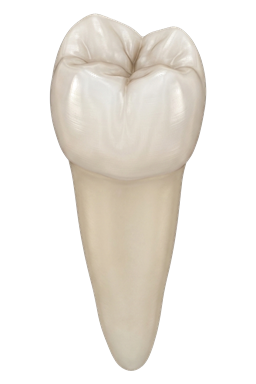
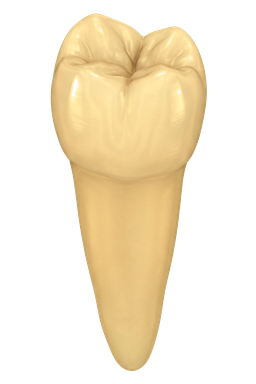
Fix upper lateral crown orientation, boost tooth color saturation, and increase odontogram tooth size

diff --git a/index.html b/index.html
@@ -839,13 +839,13 @@
     .clinical-odontogram-stage #upper-arch::before { top: clamp(38px, 4vw, 54px); }
     .clinical-odontogram-stage #lower-arch::before { bottom: clamp(38px, 4vw, 54px); }
     .clinical-odontogram-stage .tooth-card {
-      min-height: clamp(158px, 15vw, 195px);
+      min-height: clamp(175px, 17vw, 220px);
       justify-content: center;
       gap: 0.15rem;
       border: 0;
       border-radius: 0;
       background: transparent;
-      padding: clamp(2px, 0.3vw, 5px) clamp(0.5px, 0.15vw, 2px);
+      padding: clamp(2px, 0.3vw, 4px) clamp(0.5px, 0.1vw, 2px);
       box-shadow: none;
       overflow: visible;
     }
@@ -867,17 +867,17 @@
     }
     .clinical-odontogram-stage .tooth-card.has-charted-finding::after { display: none; }
     .clinical-odontogram-stage .odontogram-anatomy {
-      width: clamp(44px, 5.2vw, 68px) !important;
-      min-width: clamp(44px, 5.2vw, 68px) !important;
+      width: clamp(52px, 6.2vw, 84px) !important;
+      min-width: clamp(52px, 6.2vw, 84px) !important;
       height: auto !important;
       margin: 0;
-      aspect-ratio: 64 / 96;
+      aspect-ratio: 64 / 100;
       filter: none;
       transition: filter 0.18s ease, transform 0.18s ease;
     }
     .clinical-odontogram-stage .odontogram-anatomy.is-lateral-anatomy {
-      width: clamp(38px, 4.4vw, 58px) !important;
-      min-width: clamp(38px, 4.4vw, 58px) !important;
+      width: clamp(42px, 5.0vw, 68px) !important;
+      min-width: clamp(42px, 5.0vw, 68px) !important;
     }
     .tooth-photo.is-upper-lateral {
       transform: rotate(var(--tooth-photo-rotation)) scaleX(var(--tooth-photo-mirror)) scale(0.9);
@@ -1001,14 +1001,14 @@
     @media (max-width: 899px) {
       .clinical-odontogram-stage { --odontogram-columns: 16; }
       .clinical-odontogram-stage .tooth-card,
-      .clinical-odontogram-empty { min-height: 146px; }
+      .clinical-odontogram-empty { min-height: 156px; }
       .clinical-odontogram-stage .odontogram-anatomy {
-        width: clamp(34px, 9vw, 50px) !important;
-        min-width: clamp(34px, 9vw, 50px) !important;
+        width: clamp(38px, 10vw, 56px) !important;
+        min-width: clamp(38px, 10vw, 56px) !important;
       }
       .clinical-odontogram-stage .odontogram-anatomy.is-lateral-anatomy {
-        width: clamp(30px, 8vw, 44px) !important;
-        min-width: clamp(30px, 8vw, 44px) !important;
+        width: clamp(32px, 8.5vw, 48px) !important;
+        min-width: clamp(32px, 8.5vw, 48px) !important;
       }
       .clinical-odontogram-stage .odontogram-surface-view {
         width: clamp(30px, 9vw, 48px) !important;
@@ -12396,7 +12396,7 @@
         isUpperLateral ? 'is-lateral-anatomy' : ''
       ].filter(Boolean).join(' ');
       return `
-        <div id="anatomy-wrapper-${id}" class="${wrapperClasses}" style="width:${isPrimary ? '48px' : '56px'};height:96px;min-width:${isPrimary ? '48px' : '56px'}">
+        <div id="anatomy-wrapper-${id}" class="${wrapperClasses}" style="width:${isPrimary ? '54px' : '68px'};height:110px;min-width:${isPrimary ? '54px' : '68px'}">
           <div id="anatomy-group-${id}" class="absolute inset-0">
             <div class="tooth-photo-stage">
               <img id="tooth-photo-${id}" src="${TOOTH_PHOTO_ASSETS[family]}" alt="" aria-hidden="true" draggable="false" class="${photoClasses}" />
